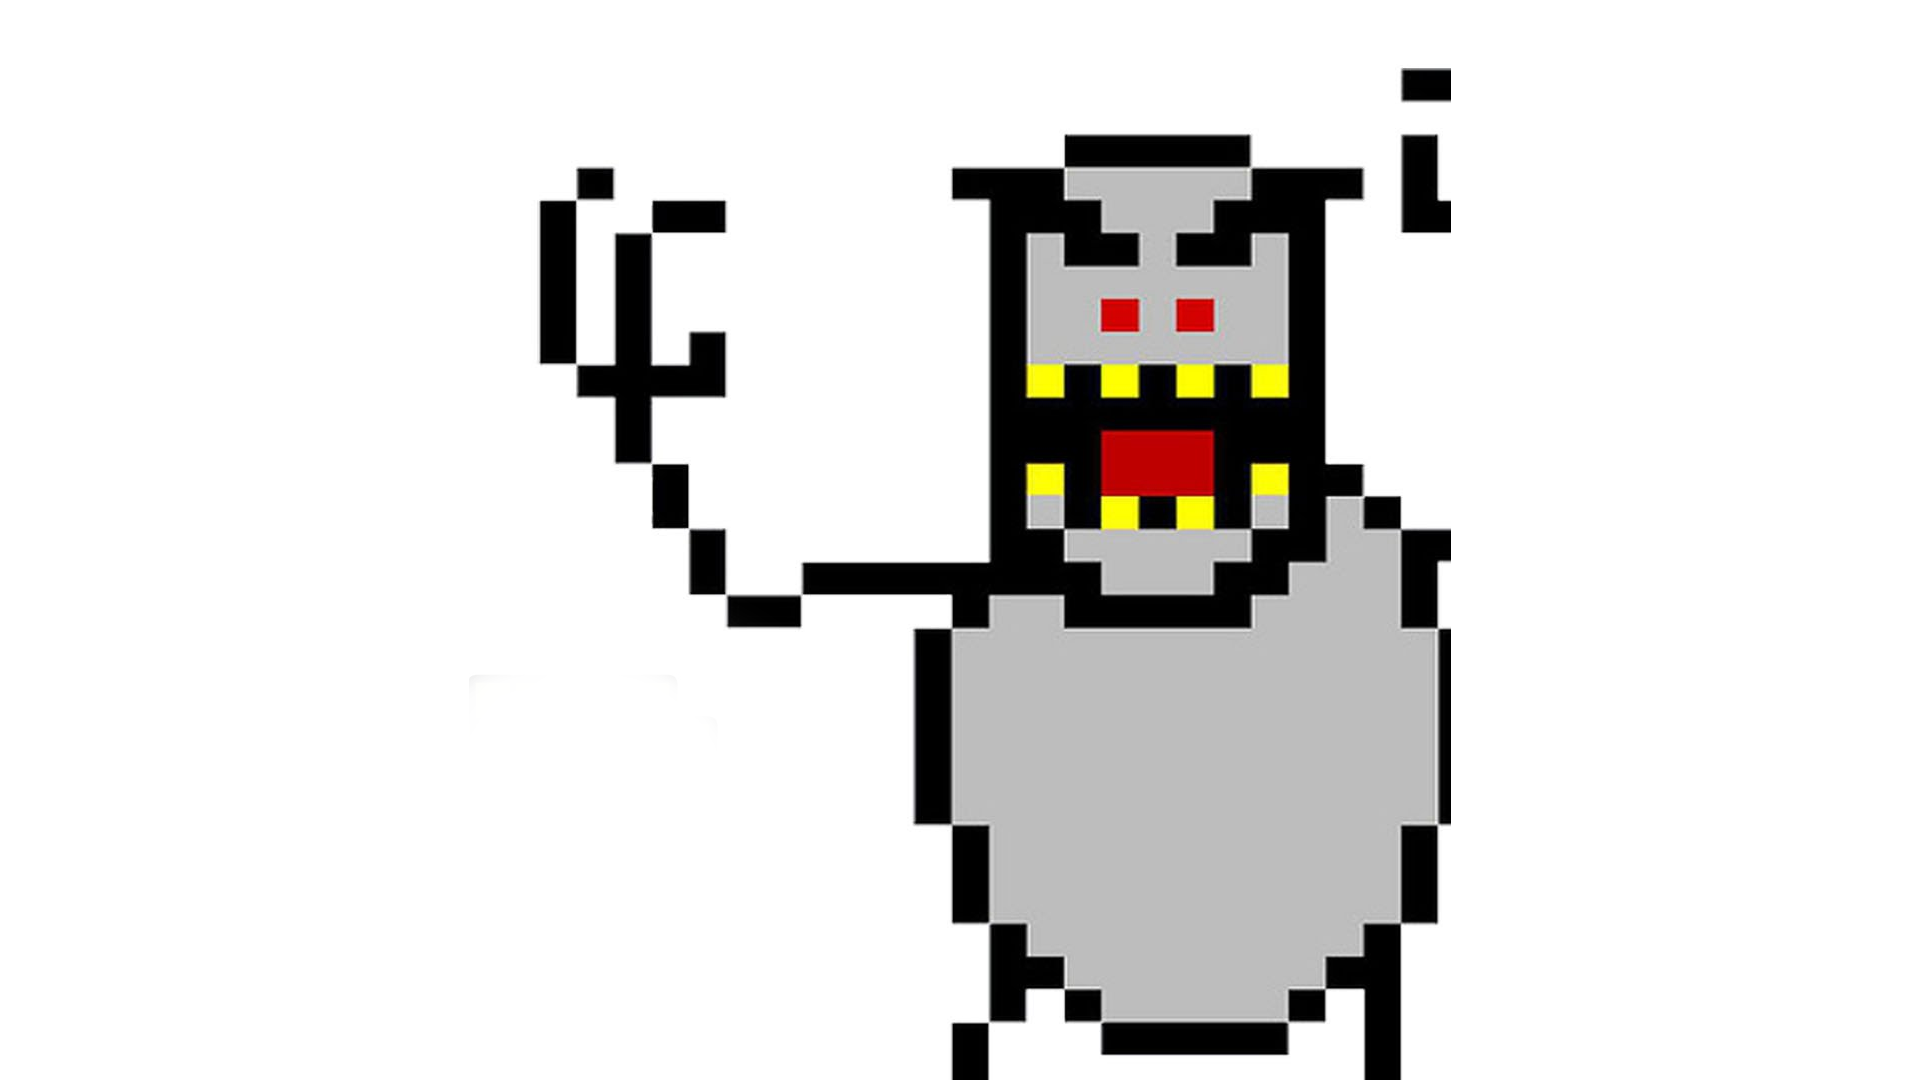
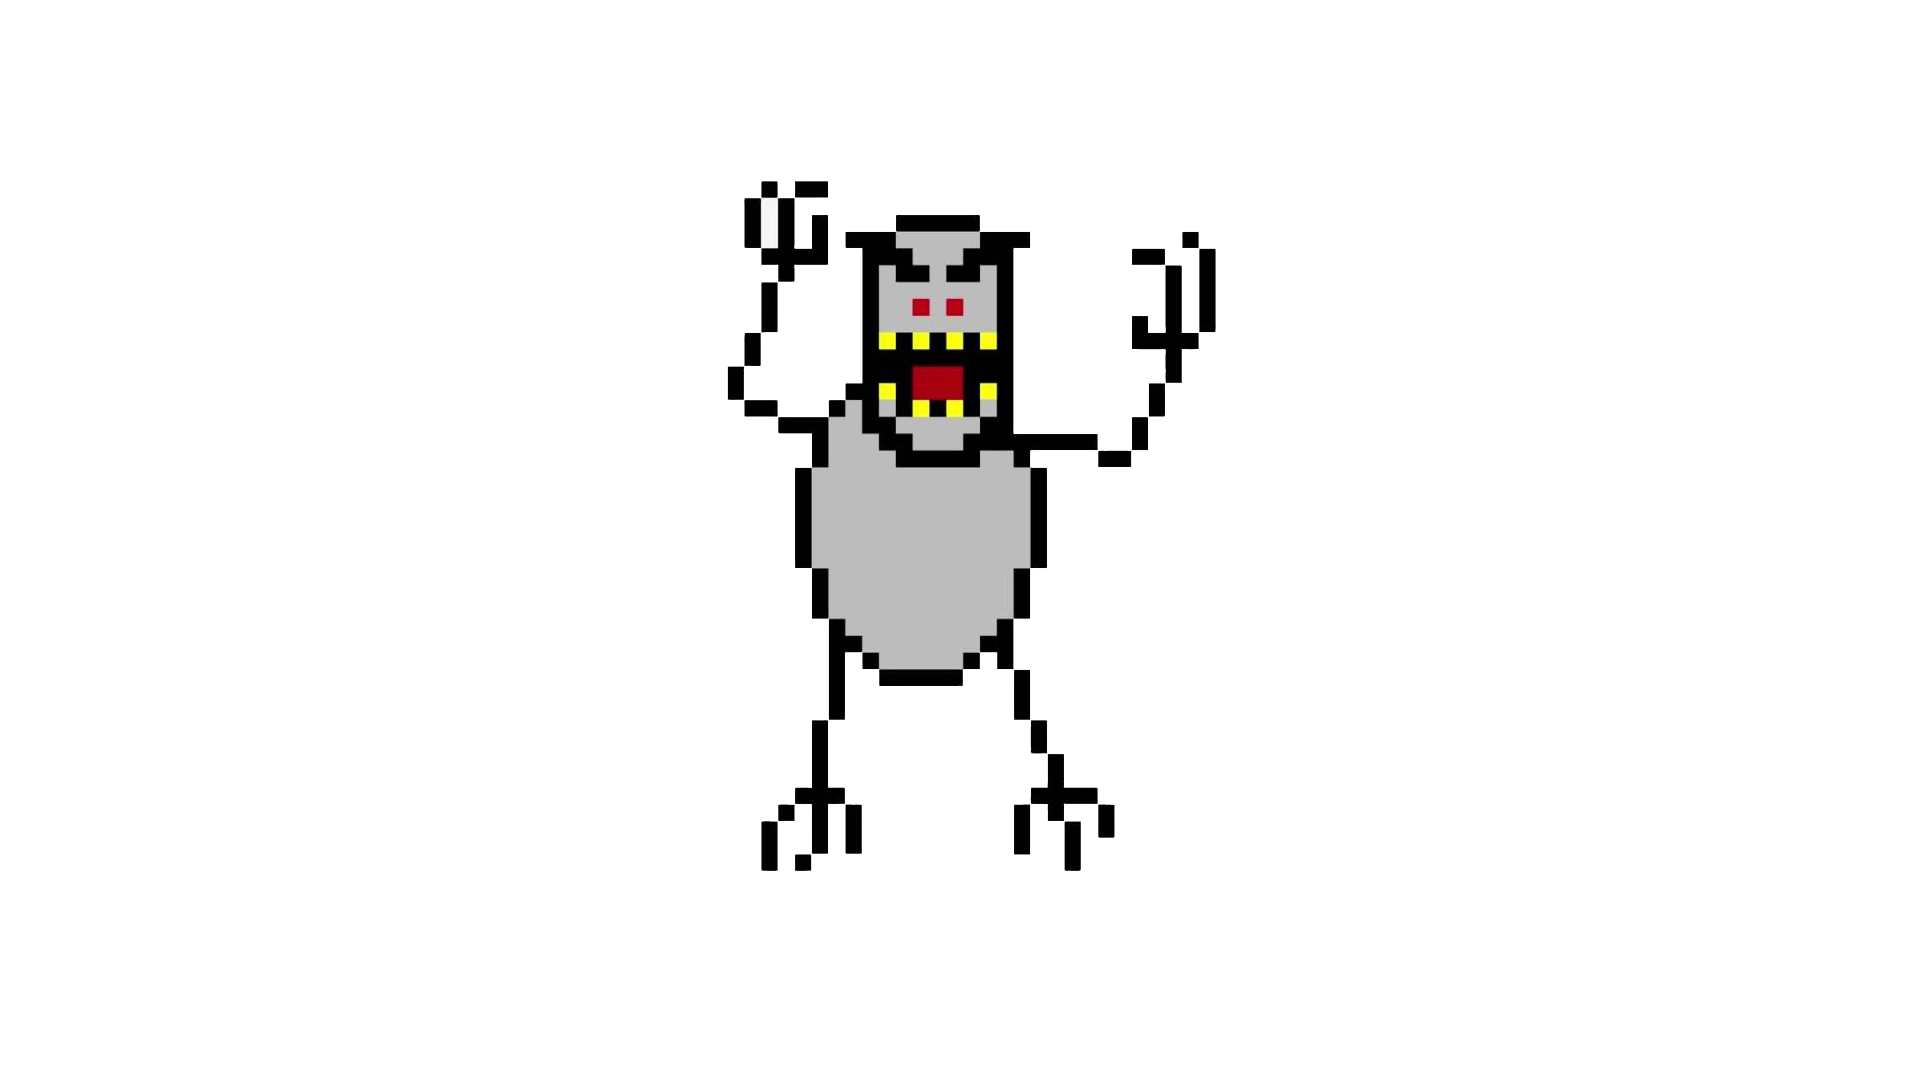
VERSÃO FINAL DE CERTEZA (Modificando as posições das Divs)

Changed region(s): [[0.2812, 0.1222, 0.7812, 1.0], [0.7188, 0.0611, 0.7812, 0.0917]]

diff --git a/SkiFree/css/estilos.css b/SkiFree/css/estilos.css
@@ -7,7 +7,7 @@ h1{
     color:rgb(4, 5, 235);
     font-style: italic;
     position: absolute;
-    left: 600px;
+    left: 550px;
     top: 40px; 
 }
 span{
@@ -68,7 +68,7 @@ span{
     position: absolute;
     padding: 3px;
     top: 280px; /**/
-    left: 820px;
+    left: 770px;
     background-color: beige;
     font-size: 15px;
     font-family: Verdana, Geneva, Tahoma, sans-serif;
@@ -84,7 +84,7 @@ span{
     position: absolute;
     padding: 3px;
     top: 110px;
-    left: 820px;
+    left: 770px;
     background-color: beige;
     font-size: 15px;
     font-family: Verdana, Geneva, Tahoma, sans-serif;
@@ -122,14 +122,16 @@ span{
     height: 500px;
     top: 50px;
     position: absolute;
+    left: -10px;
 }
 
 #img2{
-    width: 500px;
-    height: 500px;
+    width: 600px;
+    height: 600px;
     top: 20px;
-    left: 850px;
+    left: 710px;
     position: absolute;
+    
 }
 
 #montanha {
@@ -138,7 +140,7 @@ span{
     overflow: hidden; 
     /**/
     top: 100px;
-    left: 500px;
+    left: 450px;
 
 }
 
